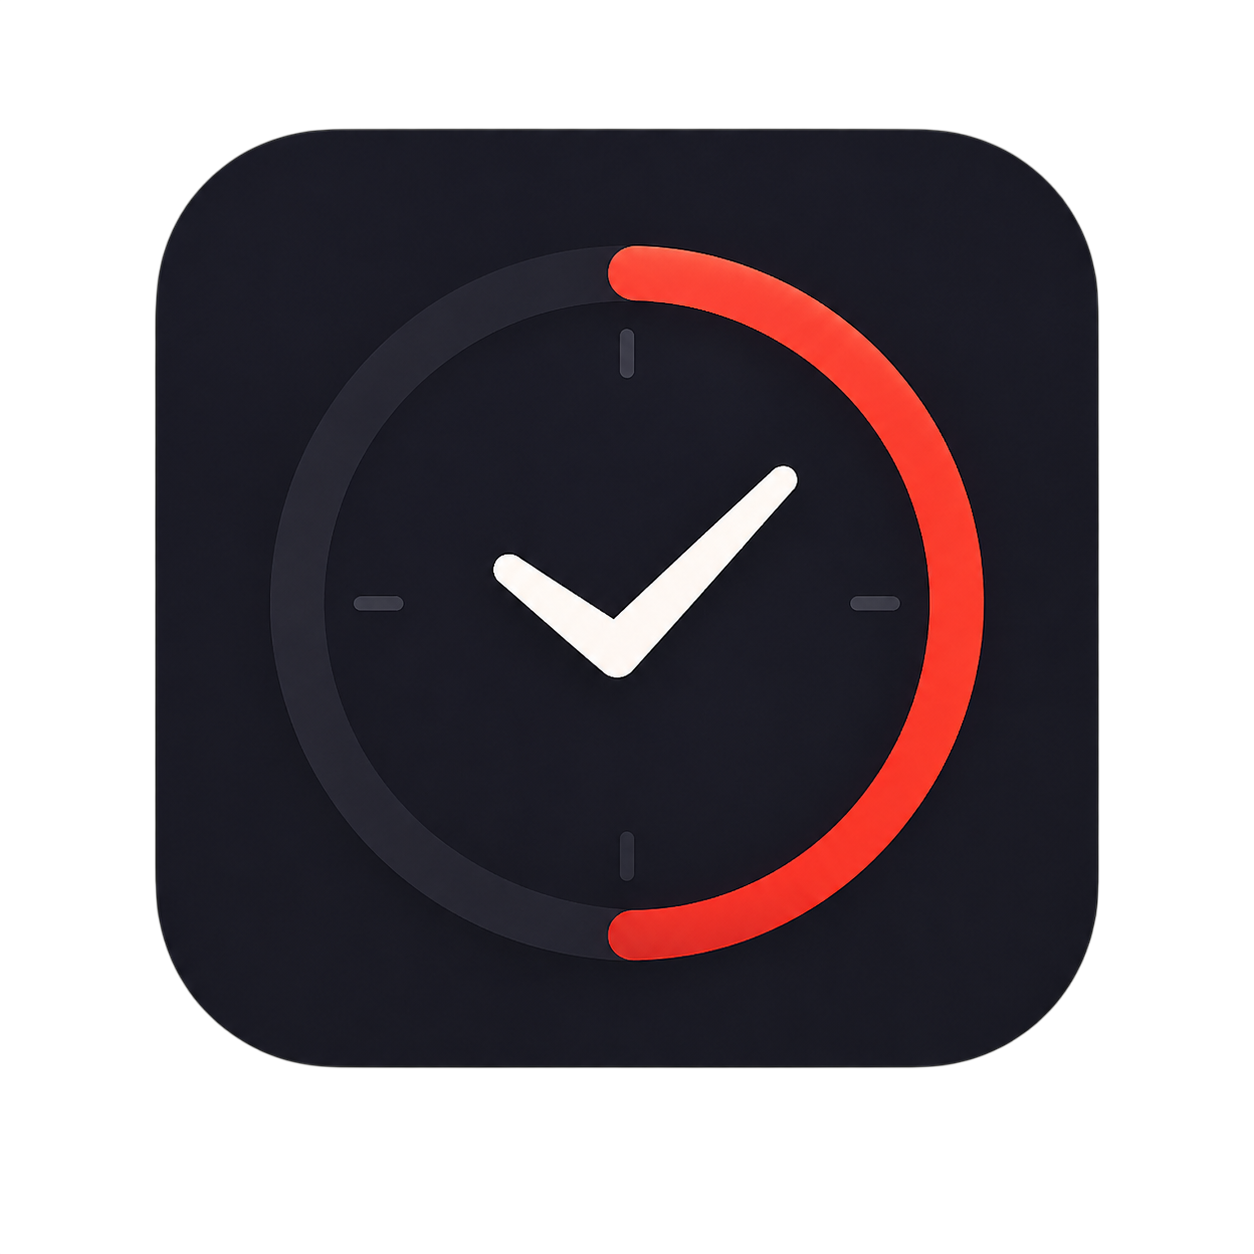
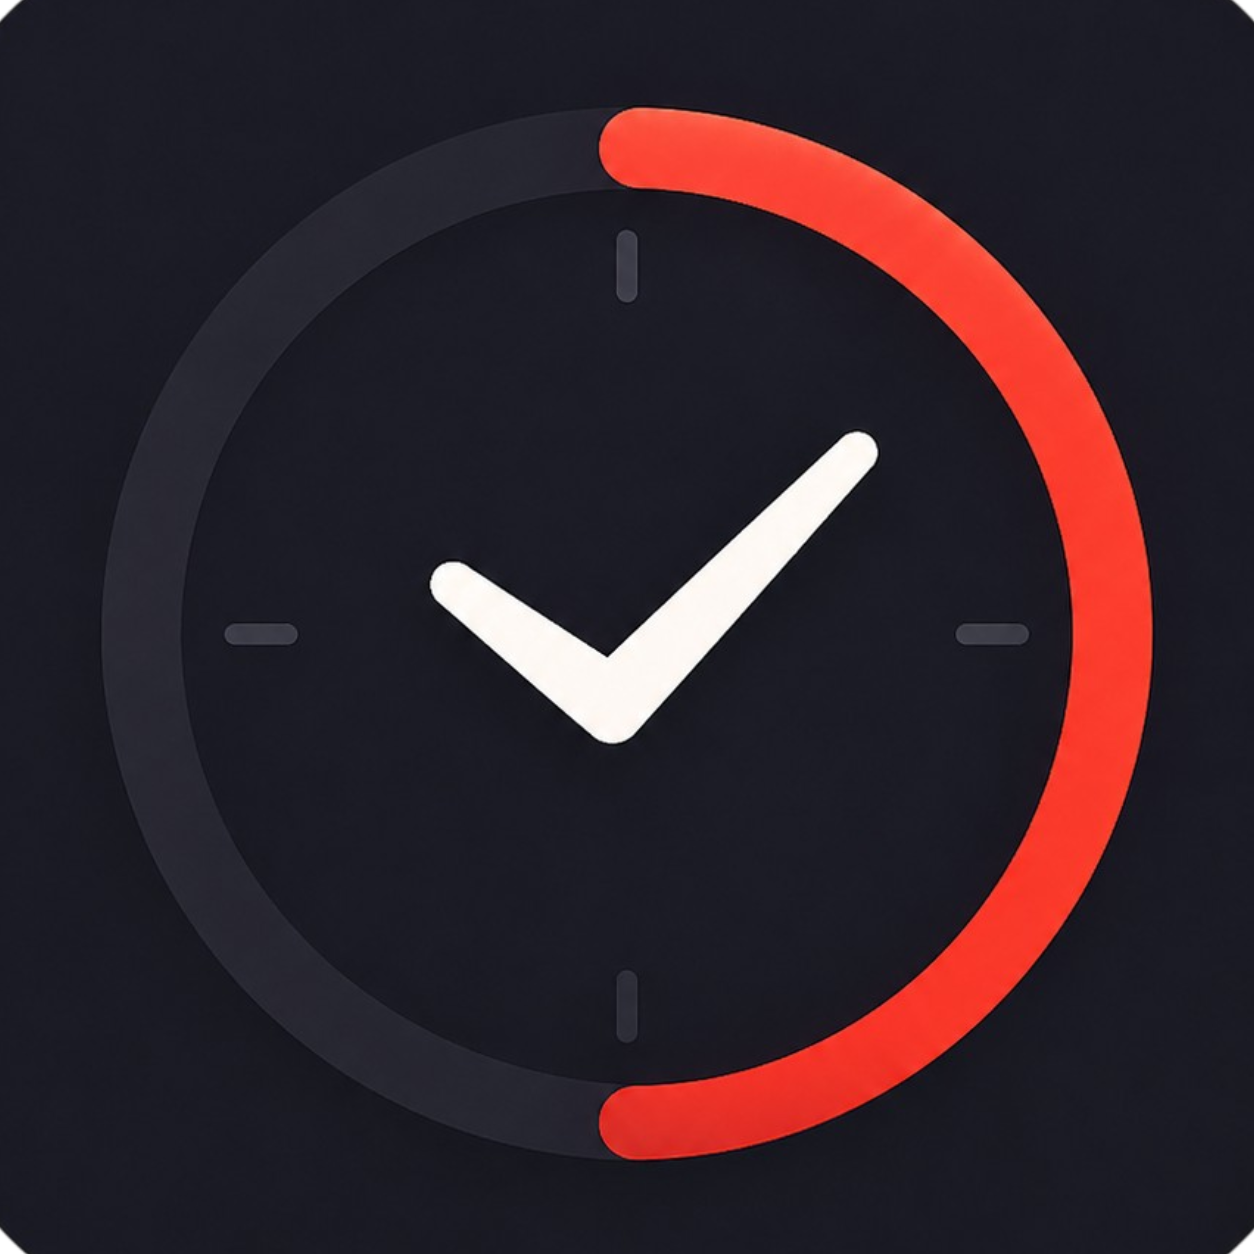
Add files via upload

diff --git a/fix.html b/fix.html
@@ -1,0 +1,60 @@
+<!DOCTYPE html>
+<html lang="tr">
+<head>
+    <meta charset="UTF-8">
+    <title>İkon Düzeltici</title>
+    <style>
+        body { font-family: sans-serif; background: #0f172a; color: white; text-align: center; padding: 50px; }
+        button { padding: 15px 30px; font-size: 18px; cursor: pointer; background: #ef4444; color: white; border: none; border-radius: 8px; margin-top: 20px; }
+        canvas { border: 2px solid #333; margin-top: 20px; border-radius: 20px; }
+    </style>
+</head>
+<body>
+    <h2>Tickoro İkon Düzeltici</h2>
+    <p>Telefonun beyaz kenar yapmasını engellemek için ikonun şeffaf köşelerini uygulama rengine boyar.</p>
+    
+    <div>
+        <canvas id="canvas512" width="512" height="512"></canvas>
+    </div>
+
+    <button onclick="fixAndDownload()">İkonları Düzelt ve İndir</button>
+
+    <script>
+        const bgColor = '#0f172a'; // Uygulamanın arka plan rengi
+
+        function drawFixedIcon(canvasId, src, size) {
+            return new Promise((resolve) => {
+                const canvas = document.getElementById(canvasId);
+                const ctx = canvas.getContext('2d');
+                const img = new Image();
+                img.onload = () => {
+                    // 1. Arka planı tamamen boya
+                    ctx.fillStyle = bgColor;
+                    ctx.fillRect(0, 0, size, size);
+                    
+                    // 2. Senin şeffaf resmini üstüne çiz
+                    ctx.drawImage(img, 0, 0, size, size);
+                    resolve(canvas.toDataURL('image/png'));
+                };
+                img.src = src;
+            });
+        }
+
+        async function fixAndDownload() {
+            // İkonları çiz ve al
+            const dataUrl512 = await drawFixedIcon('canvas512', 'icons/icon-512.png', 512);
+            
+            // İndir 512
+            const link512 = document.createElement('a');
+            link512.download = 'icon-512.png';
+            link512.href = dataUrl512;
+            link512.click();
+
+            alert('Yeni icon-512.png dosyası indirildi! Lütfen bu dosyayı kopyalayıp icons klasöründeki eski dosyaların (icon-192.png ve icon-512.png) yerine yapıştır (isimlerini ayarlayarak) ve GitHub\'a pushla.');
+        }
+
+        // Sayfa açılınca önizlemeyi göster
+        drawFixedIcon('canvas512', 'icons/icon-512.png', 512);
+    </script>
+</body>
+</html>
